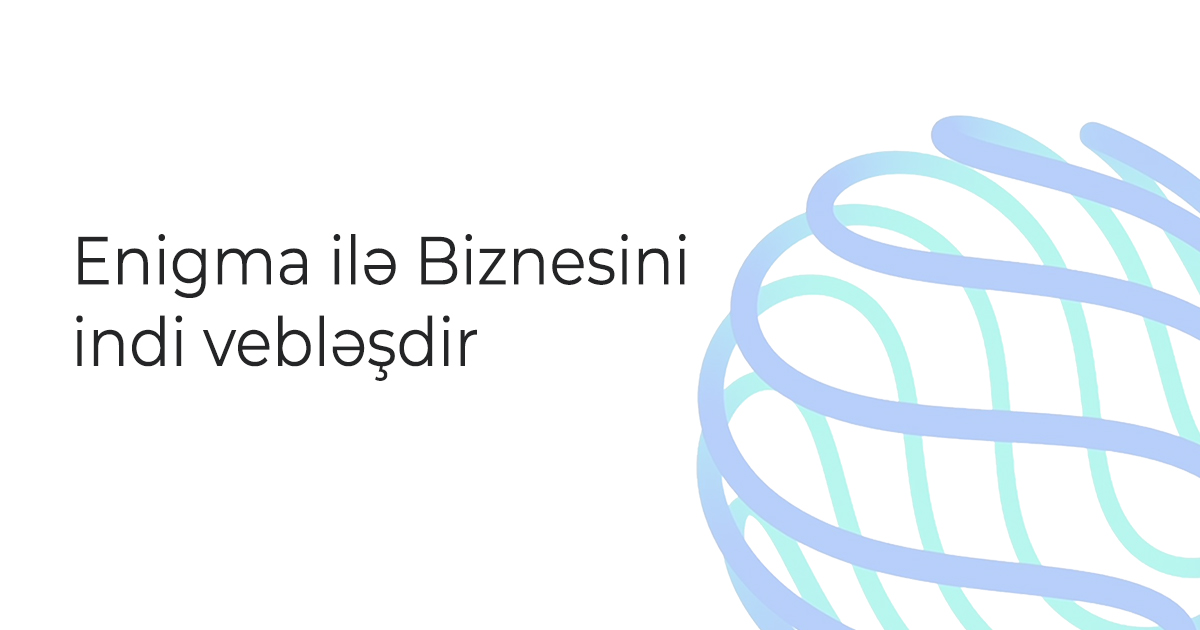
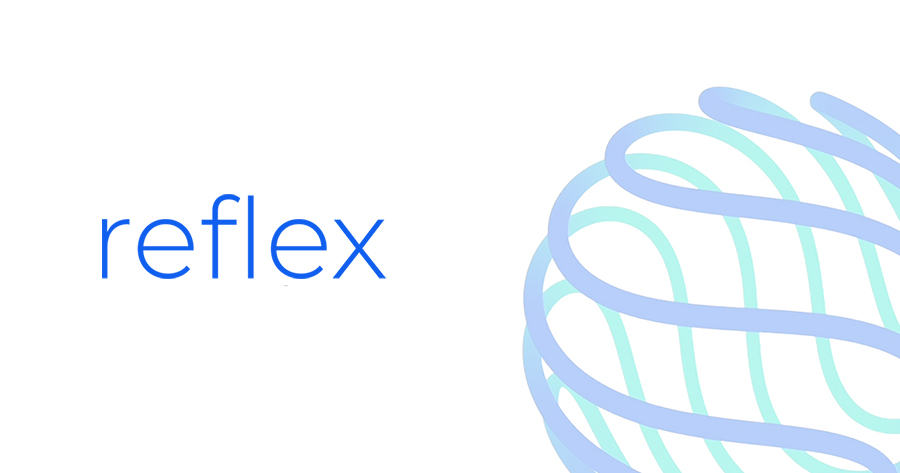
rebrand

Changed region(s): [[0.0622, 0.3552, 0.5911, 0.6216]]

diff --git a/index.html b/index.html
@@ -5,44 +5,34 @@
     <meta charset="UTF-8">
     <meta name="viewport" content="width=device-width, initial-scale=1.0">
     <meta http-equiv="X-UA-Compatible" content="ie=edge">
-    <title>Enigma | Veb saytların hazırlanması</title>
+    <title>reflex | Veb saytların hazırlanması</title>
     <meta name="keywords"
         content="Veb saytların hazırlanması, saytların yaradılması, saytların yığılması, saytların dizaynı">
     <meta name="description"
-        content="Veb sayt peşəkar görünməyinizi təmin edir. Enigma veb proqramlaşdırma və dizayn üzrə ixtisaslaşmış rəqəmsal agentlikdir.">
+        content="Veb sayt peşəkar görünməyinizi təmin edir. reflex veb proqramlaşdırma və dizayn üzrə ixtisaslaşmış rəqəmsal agentlikdir.">
 
     <meta property="og:locale" content="az_AZ">
-    <meta property="og:site_name" content="Enigma.az">
-    <meta property="og:url" content="https://enigma.az" />
+    <meta property="og:site_name" content="reflex.az">
+    <meta property="og:url" content="https://reflex.az" />
     <meta property="og:type" content="website" />
-    <meta property="og:title" content="Enigma | Veb saytların hazırlanması, saytların yığılması" />
+    <meta property="og:title" content="reflex | Veb saytların hazırlanması, saytların yığılması" />
     <meta property="og:description"
-        content="Veb sayt peşəkar görünməyinizi təmin edir. Enigma veb proqramlaşdırma və dizayn üzrə ixtisaslaşmış rəqəmsal agentlikdir. Biz təcrübəmizə güvənərək sizin saytların yeni texnologiyalara uyğun, güvənli və maksimum sürətli olacağına zəmanət veririk." />
-    <meta property="og:image" content="https://enigma.az/images/app.jpg" />
-
+        content="Veb sayt peşəkar görünməyinizi təmin edir. reflex veb proqramlaşdırma və dizayn üzrə ixtisaslaşmış rəqəmsal agentlikdir. Biz təcrübəmizə güvənərək sizin saytların yeni texnologiyalara uyğun, güvənli və maksimum sürətli olacağına zəmanət veririk." />
+    <meta property="og:image" content="https://reflex.az/images/app.jpg" />
     <link rel="icon" href="images/favicon.png">
 
     <link rel="stylesheet" href="css/bundle.min.css">
     <link rel="stylesheet" href="css/style.css?v=2">
-
-    <!-- Global site tag (gtag.js) - Google Analytics -->
-    <script async src="https://www.googletagmanager.com/gtag/js?id=G-R8WY0NELXH"></script>
-    <script>
-        window.dataLayer = window.dataLayer || [];
-        function gtag() { dataLayer.push(arguments); }
-        gtag('js', new Date());
-        gtag('config', 'G-R8WY0NELXH');
-    </script>
 </head>
 
 <body>
     <div id="preloader">
-        <div class="enigma-load"></div>
+        <div class="reflex-load"></div>
     </div>
     <div id="app">
         <nav class="navbar navbar-expand-lg navbar-light">
             <div class="container-fluid">
-                <a class="navbar-brand" href="/"><img src="images/logotype1.png"></a>
+                <a class="navbar-brand" href="/"><img src="images/logo.png"></a>
                 <button class="navbar-toggler" type="button" data-toggle="collapse" data-target="#navbarNav"
                     aria-controls="navbarNavAltMarkup" aria-expanded="false" aria-label="Toggle navigation">
                     <span class="navbar-toggler-icon"></span>
@@ -61,13 +51,14 @@
                 <div class="row">
                     <div class="col-md-7 textholder">
                         <h1 class="now">
-                            Enigma ilə <span data-text="Biznesini/İdeyanı/Məhsulunu/Özünü"
+                            reflex ilə <span data-text="Biznesini/İdeyanı/Məhsulunu/Özünü"
                                 class="text-change-elem">Biznesini</span>
                             <br>
-                            <a class="p-action-click innerlink" href="#contactus">indi vebləşdir<i class="lnr lnr-arrow-right"></i></a>
+                            <a class="p-action-click innerlink" href="#contactus">indi vebləşdir<i
+                                    class="lnr lnr-arrow-right"></i></a>
                         </h1>
                         <p class="whoarewe">
-                            Enigma veb proqramlaşdırma və dizayn üzrə ixtisaslaşmış rəqəmsal agentlikdir.
+                            reflex veb proqramlaşdırma və dizayn üzrə ixtisaslaşmış rəqəmsal agentlikdir.
                             Komandamız Bakıda fəaliyyət göstərsə də dünya miqyasında xidmət verir.
                         </p>
                     </div>
@@ -164,7 +155,8 @@
                 <h2 class="section-header" data-aos="fade-up">Xidmətlərimiz</h2>
                 <div class="row">
                     <div class="col-md-4 service" data-aos="fade-up">
-                        <img class="service-icon lazy" src="images/favicon.png" data-src="images/elements/world-wide-web.svg">
+                        <img class="service-icon lazy" src="images/favicon.png"
+                            data-src="images/elements/world-wide-web.svg">
                         <h3>Veb</h3>
                         <p>
                             Sıfırdan bir veb sayt hazırlamaq və işə salmaq həmçinin mövcud veb saytınızı müasir tələb və
@@ -176,7 +168,8 @@
                         <span>Server idarəedilməsi</span>
                     </div>
                     <div class="col-md-4 service" data-aos="fade-up" data-aos-delay="100">
-                        <img class="service-icon lazy" src="images/favicon.png" data-src="images/elements/mobile-app.svg">
+                        <img class="service-icon lazy" src="images/favicon.png"
+                            data-src="images/elements/mobile-app.svg">
                         <h3>Mobil tətbiqlər</h3>
                         <p>
                             Professional komandamız hədəflərinə çatan və istifadəçiləri xoşbəxt edən tətbiqetmələr
@@ -212,7 +205,8 @@
                             <a href="https://msdisholding.az/" target="_blank">
                                 <div class="project-scene">
                                     <div data-depth="0.5">
-                                        <img  data-src="images/projects/msdis.jpg" src="images/favicon.png" class="img-fluid lazy msdisimg">
+                                        <img data-src="images/projects/msdis.jpg" src="images/favicon.png"
+                                            class="img-fluid lazy msdisimg">
                                     </div>
                                 </div>
                                 <div class="project-meta">
@@ -228,7 +222,8 @@
                             <a href="https://bearings.az/" target="_blank">
                                 <div class="project-scene">
                                     <div data-depth="0.5">
-                                        <img  data-src="images/projects/bearings.jpg" src="images/favicon.png" class="img-fluid lazy">
+                                        <img data-src="images/projects/bearings.jpg" src="images/favicon.png"
+                                            class="img-fluid lazy">
                                     </div>
                                 </div>
                                 <div class="project-meta">
@@ -242,7 +237,8 @@
                             <a href="https://canliherrac.az/" target="_blank">
                                 <div class="project-scene">
                                     <div data-depth="0.5">
-                                        <img  data-src="images/projects/canli.jpg" src="images/favicon.png" class="img-fluid lazy">
+                                        <img data-src="images/projects/canli.jpg" src="images/favicon.png"
+                                            class="img-fluid lazy">
                                     </div>
                                 </div>
                                 <div class="project-meta">
@@ -256,7 +252,8 @@
                             <a href="https://eldenele.az/" target="_blank">
                                 <div class="project-scene">
                                     <div data-depth="0.5">
-                                        <img  data-src="images/projects/elden.jpg" src="images/favicon.png" class="img-fluid lazy">
+                                        <img data-src="images/projects/elden.jpg" src="images/favicon.png"
+                                            class="img-fluid lazy">
                                     </div>
                                 </div>
                                 <div class="project-meta">
@@ -272,7 +269,8 @@
                             <a href="https://darx.az/" target="_blank">
                                 <div class="project-scene">
                                     <div data-depth="0.5">
-                                        <img  data-src="images/projects/darx.jpg" src="images/favicon.png" class="img-fluid lazy">
+                                        <img data-src="images/projects/darx.jpg" src="images/favicon.png"
+                                            class="img-fluid lazy">
                                     </div>
                                 </div>
                                 <div class="project-meta">
@@ -286,7 +284,8 @@
                             <a href="https://rafoaydin.com/" target="_blank">
                                 <div class="project-scene">
                                     <div data-depth="0.5">
-                                        <img  data-src="images/projects/rafo.jpg" src="images/favicon.png" class="img-fluid lazy">
+                                        <img data-src="images/projects/rafo.jpg" src="images/favicon.png"
+                                            class="img-fluid lazy">
                                     </div>
                                 </div>
                                 <div class="project-meta">
@@ -300,7 +299,8 @@
                             <a href="https://crispa.az/" target="_blank">
                                 <div class="project-scene">
                                     <div data-depth="0.5">
-                                        <img  data-src="images/projects/crispa.jpg" src="images/favicon.png" class="img-fluid lazy">
+                                        <img data-src="images/projects/crispa.jpg" src="images/favicon.png"
+                                            class="img-fluid lazy">
                                     </div>
                                 </div>
                                 <div class="project-meta">
@@ -317,46 +317,34 @@
         <section id="contactus">
             <div class="container">
                 <div class="section-header-holder">
-                    <h2 class="section-header" >Bizimlə əlaqə</h2>
+                    <h2 class="section-header">Bizimlə əlaqə</h2>
                 </div>
                 <div class="row">
                     <div class="col-md-12">
                         <div class="contact-form">
-                            <h5 class="mb-4" >Yeni bir layihə barədə müzakirə aparmaq üçün bizimlə əlaqə saxlamaqdan
+                            <h5 class="mb-4">Yeni bir layihə barədə müzakirə aparmaq üçün bizimlə əlaqə saxlamaqdan
                                 çəkinməyin.</h5>
                             <div class="row contact-items justify-content-between">
-                                <div class="col-6 col-md-2 mb-4 mb-md-0">
-                                    <a  href="tel:+9940504156585" data-toggle="tooltip" data-placement="bottom"
+                                <div class="col-6 col-md-3 mb-4 mb-md-0">
+                                    <a href="tel:+9940504156585" data-toggle="tooltip" data-placement="bottom"
                                         title="+994 50 415 65 85">
                                         <i class="fas fa-phone"></i>
                                     </a>
                                 </div>
-                                <div class="col-6 col-md-2 mb-4 mb-md-0">
-                                    <a  href="https://wa.me/9940504156585" data-toggle="tooltip" data-placement="bottom"
+                                <div class="col-6 col-md-3 mb-4 mb-md-0">
+                                    <a href="https://wa.me/9940504156585" data-toggle="tooltip" data-placement="bottom"
                                         title="+994 50 415 65 85">
                                         <i class="fab fa-whatsapp"></i>
                                     </a>
                                 </div>
-                                <div class="col-6 col-md-2 mb-4 mb-md-0">
-                                    <a  href="https://www.facebook.com/Enigma-106379041504109" data-toggle="tooltip"
-                                        data-placement="bottom" title="@enigma.web.solutions">
-                                        <i class="fab fa-facebook"></i>
+                                <div class="col-6 col-md-3">
+                                    <a href="https://t.me/amirahuseynov">
+                                        <i class="fab fa-telegram"></i>
                                     </a>
                                 </div>
-                                <div class="col-6 col-md-2 mb-4 mb-md-0">
-                                    <a  href="https://www.instagram.com/enigma.web.solutions/" data-toggle="tooltip"
-                                        data-placement="bottom" title="@enigma.web.solutions">
-                                        <i class="fab fa-instagram"></i>
-                                    </a>
-                                </div>
-                                <div class="col-6 col-md-2">
-                                    <a  href="#">
-                                        <i class="fab fa-linkedin"></i>
-                                    </a>
-                                </div>
-                                <div class="col-6 col-md-2">
-                                    <a  href="mailto:info@enigma.az" data-toggle="tooltip" data-placement="bottom"
-                                        title="info@enigma.az">
+                                <div class="col-6 col-md-3">
+                                    <a href="mailto:info@reflex.az" data-toggle="tooltip" data-placement="bottom"
+                                        title="info@reflex.az">
                                         <i class="far fa-envelope"></i>
                                     </a>
                                 </div>
@@ -370,7 +358,7 @@
             <div class="container">
                 <div class="d-md-flex justify-content-between">
                     <p class="copy-w mb-4 mb-md-0">
-                        Enigma tərəfindən <span class="text-danger">sevgi</span> ilə hazırlanmışdır. 2021
+                        reflex tərəfindən <span class="text-danger">sevgi</span> ilə hazırlanmışdır. 2021
                         © Bütün hüquqlar qorunur.
                     </p>
                     <i class="lnr lnr-arrow-up scrolltop"></i>
@@ -380,16 +368,16 @@
     </div>
     <div id="intro-contacts">
         <div class="container-fluid">
-            <a href="https://www.facebook.com/Enigma-106379041504109">
-                <i class="fab fa-facebook"></i>
+            <a href="tel:+994555821566">
+                <i class="fas fa-phone"></i>
             </a>
-            <a href="https://www.instagram.com/enigma.web.solutions/">
-                <i class="fab fa-instagram"></i>
-            </a>
-            <a href="https://wa.me/9940504156585">
+            <a href="https://wa.me/994555821566">
                 <i class="fab fa-whatsapp"></i>
             </a>
-            <a href="mailto:info@enigma.az">
+            <a href="https://t.me/amirahuseynov">
+                <i class="fab fa-telegram"></i>
+            </a>
+            <a href="mailto:info@reflex.az">
                 <i class="far fa-envelope"></i>
             </a>
         </div>
@@ -405,4 +393,5 @@
     <link rel="preconnect" href="https://fonts.gstatic.com">
     <link href="https://fonts.googleapis.com/css2?family=Montserrat:wght@500;800&display=swap" rel="stylesheet">
 </body>
+
 </html>

diff --git a/css/style.css b/css/style.css
@@ -714,9 +714,9 @@ nav .navbar-brand img:hover {
   background-color: #ffffff;
 }
 
-.enigma-load {
-  -webkit-animation: 1500ms linear 0s normal none infinite running enigma-load;
-  animation: 1500ms linear 0s normal none infinite running enigma-load;
+.reflex-load {
+  -webkit-animation: 1500ms linear 0s normal none infinite running reflex-load;
+  animation: 1500ms linear 0s normal none infinite running reflex-load;
   background: transparent;
   border-color: #ffffff;
   border-top-color: #105fef;
@@ -733,7 +733,7 @@ nav .navbar-brand img:hover {
   z-index: 9;
 }
 
-@-webkit-keyframes enigma-load {
+@-webkit-keyframes reflex-load {
   0% {
       -webkit-transform: rotate(0deg);
       transform: rotate(0deg);
@@ -745,7 +745,7 @@ nav .navbar-brand img:hover {
   }
 }
 
-@keyframes enigma-load {
+@keyframes reflex-load {
   0% {
       -webkit-transform: rotate(0deg);
       transform: rotate(0deg);
